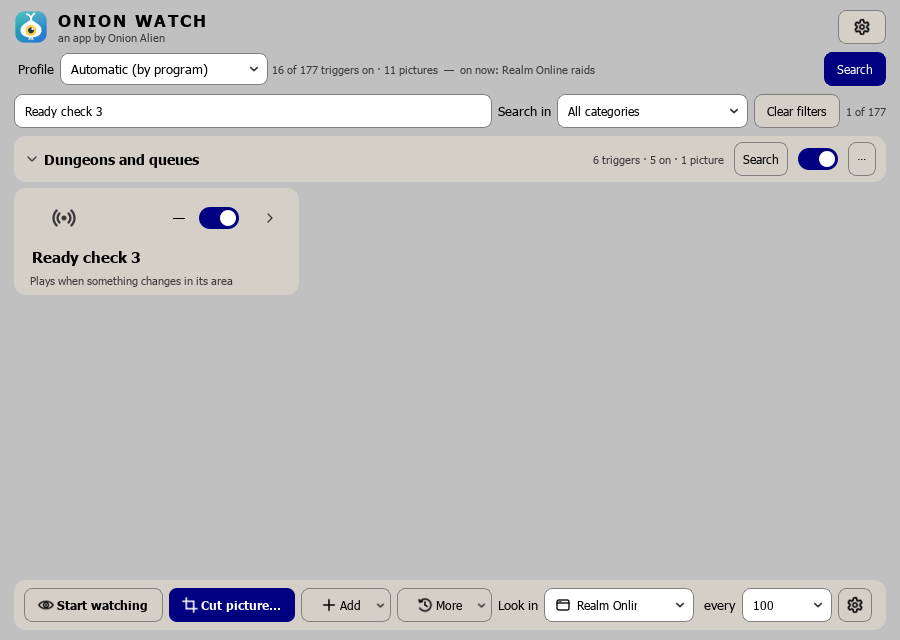
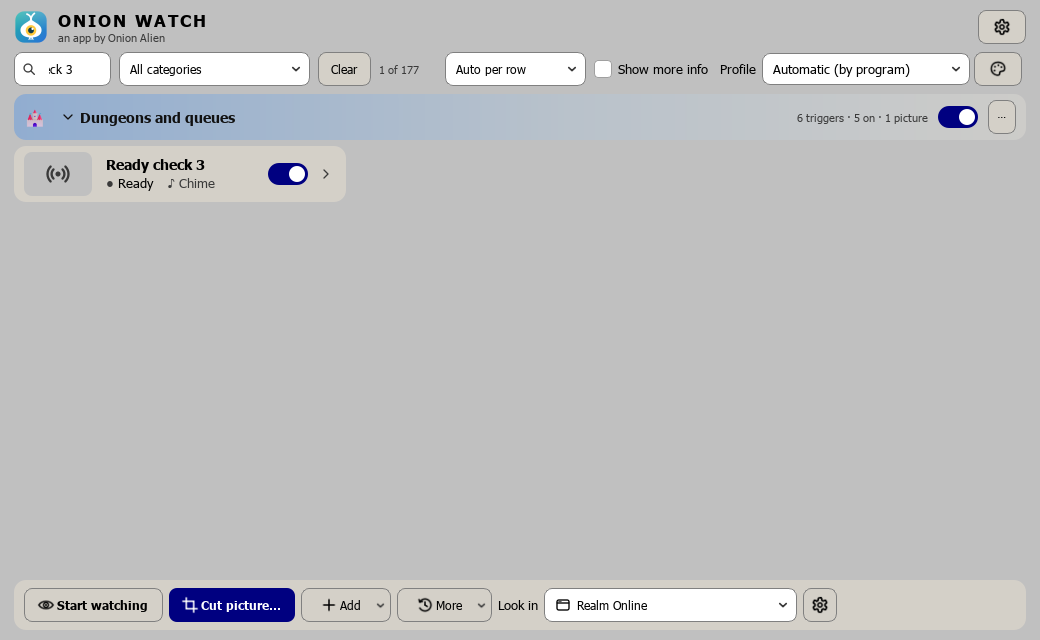
Screenshots: 0.7.0 cards, and categories with their own colours and pictures

diff --git a/scripts/screenshots.py b/scripts/screenshots.py
@@ -275,6 +275,23 @@ def main(out: Path):
     tab.set_watching(False, remember=False)
     for name in ("Raid bosses", "Dungeons and queues", "Rare spawns", "Fishing"):
         tab.new_category(name)
+    # each category's own colour and picture (the pictures drawn here: an emoji each)
+    from onionwatch.ui import categories as catui
+
+    def emoji_picture(ch: str) -> str:
+        img = QImage(128, 128, QImage.Format_ARGB32)
+        img.fill(Qt.transparent)
+        p = QPainter(img)
+        p.setFont(QFont("Segoe UI Emoji", 64))
+        p.drawText(QRect(0, 0, 128, 128), Qt.AlignCenter, ch)
+        p.end()
+        return catui.save_picture(img, tab.host.data_dir)
+
+    tab.set_category_looks({
+        "Raid bosses": {"color": "#d9675e", "image": emoji_picture("🐉")},
+        "Dungeons and queues": {"color": "#5a90d6", "image": emoji_picture("🏰")},
+        "Rare spawns": {"color": "#dcc060", "image": emoji_picture("💎")},
+        "Fishing": {"color": "#3fb3a5", "image": emoji_picture("🎣")}})
     moves = {"demo0": "Rare spawns", "demo1": "Raid bosses", "demo2": "Dungeons and queues"}
     for t in list(tab.triggers):
         if t.id in moves:
@@ -302,7 +319,7 @@ def main(out: Path):
     tab._layout_sections()
     for row in tab.rows.values():
         row.set_open(False)
-    win.resize(900, 640)
+    win.resize(1040, 640)   # wide enough that the search box isn't squeezed
     app.processEvents()
     for _ in range(3):
         app.processEvents()
